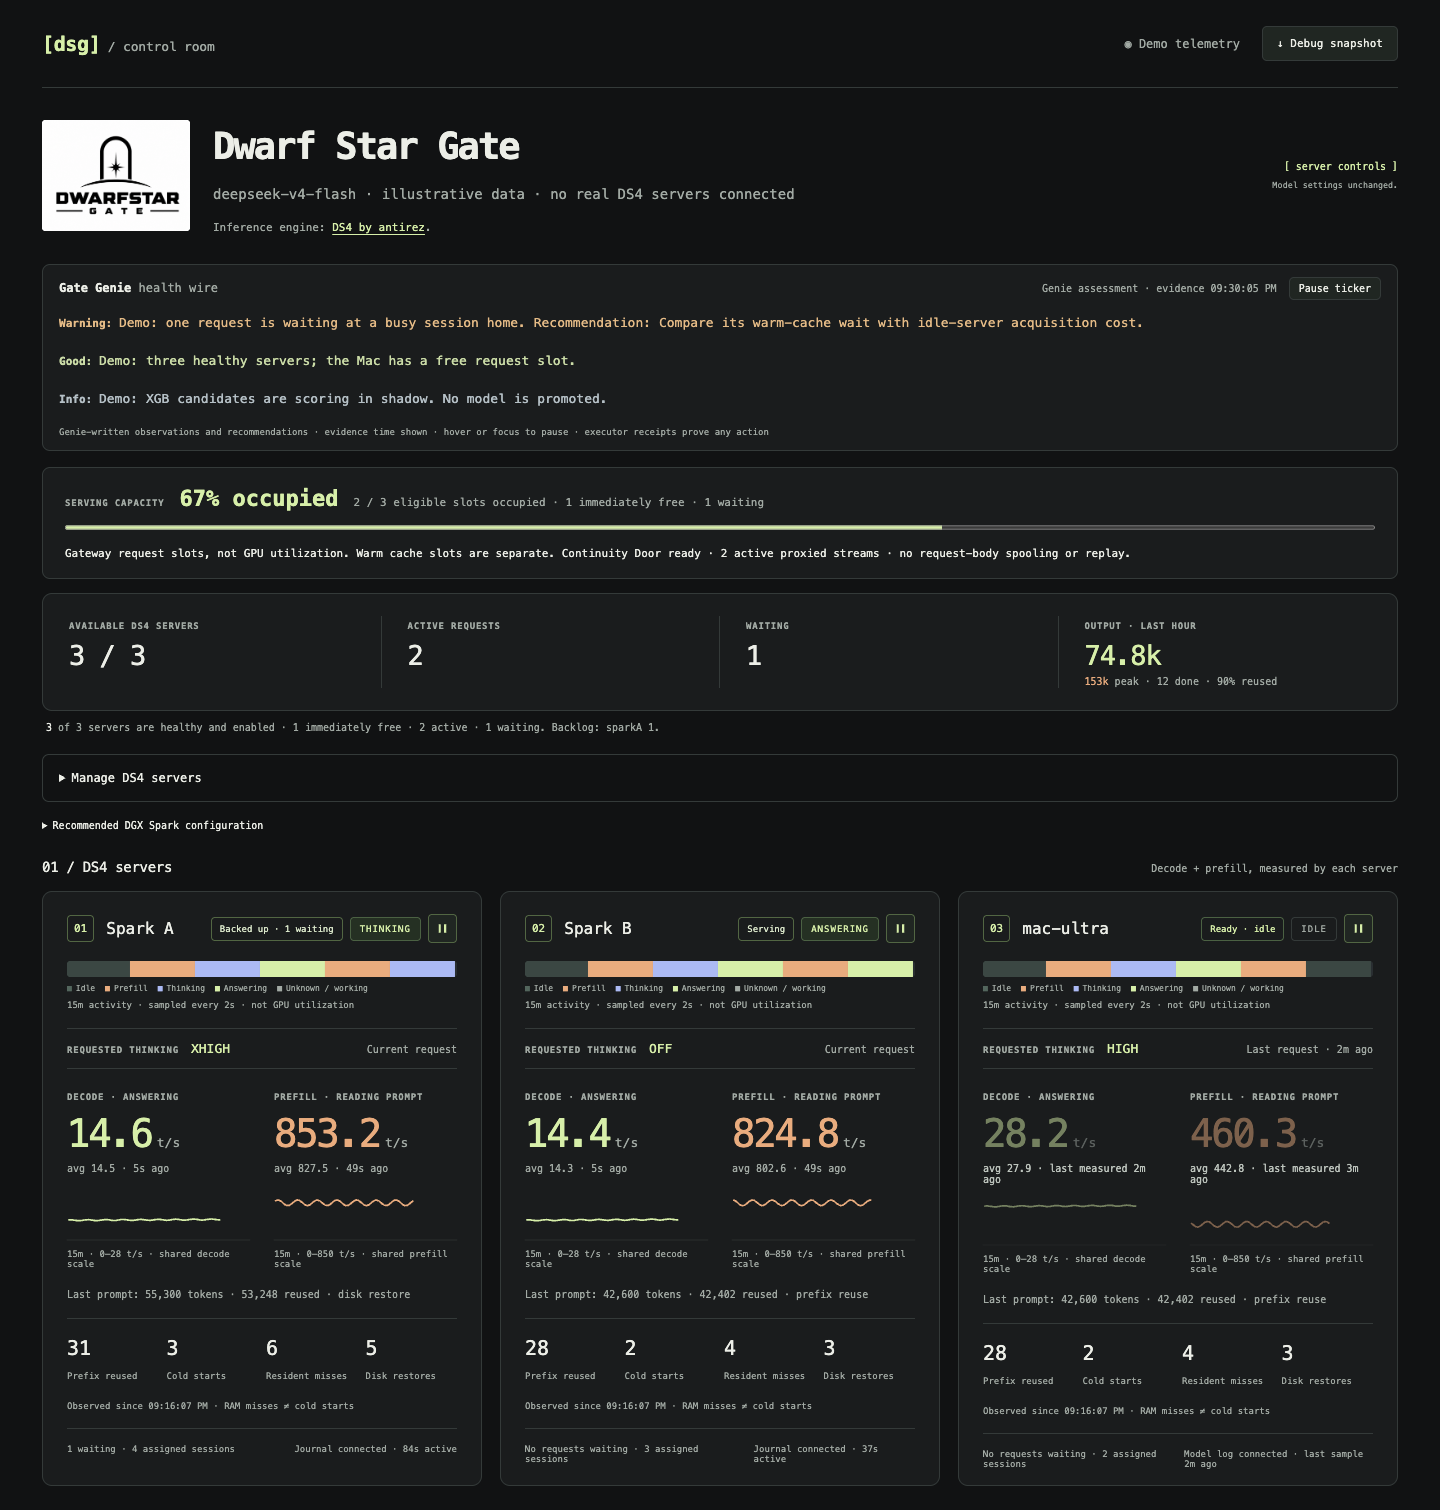
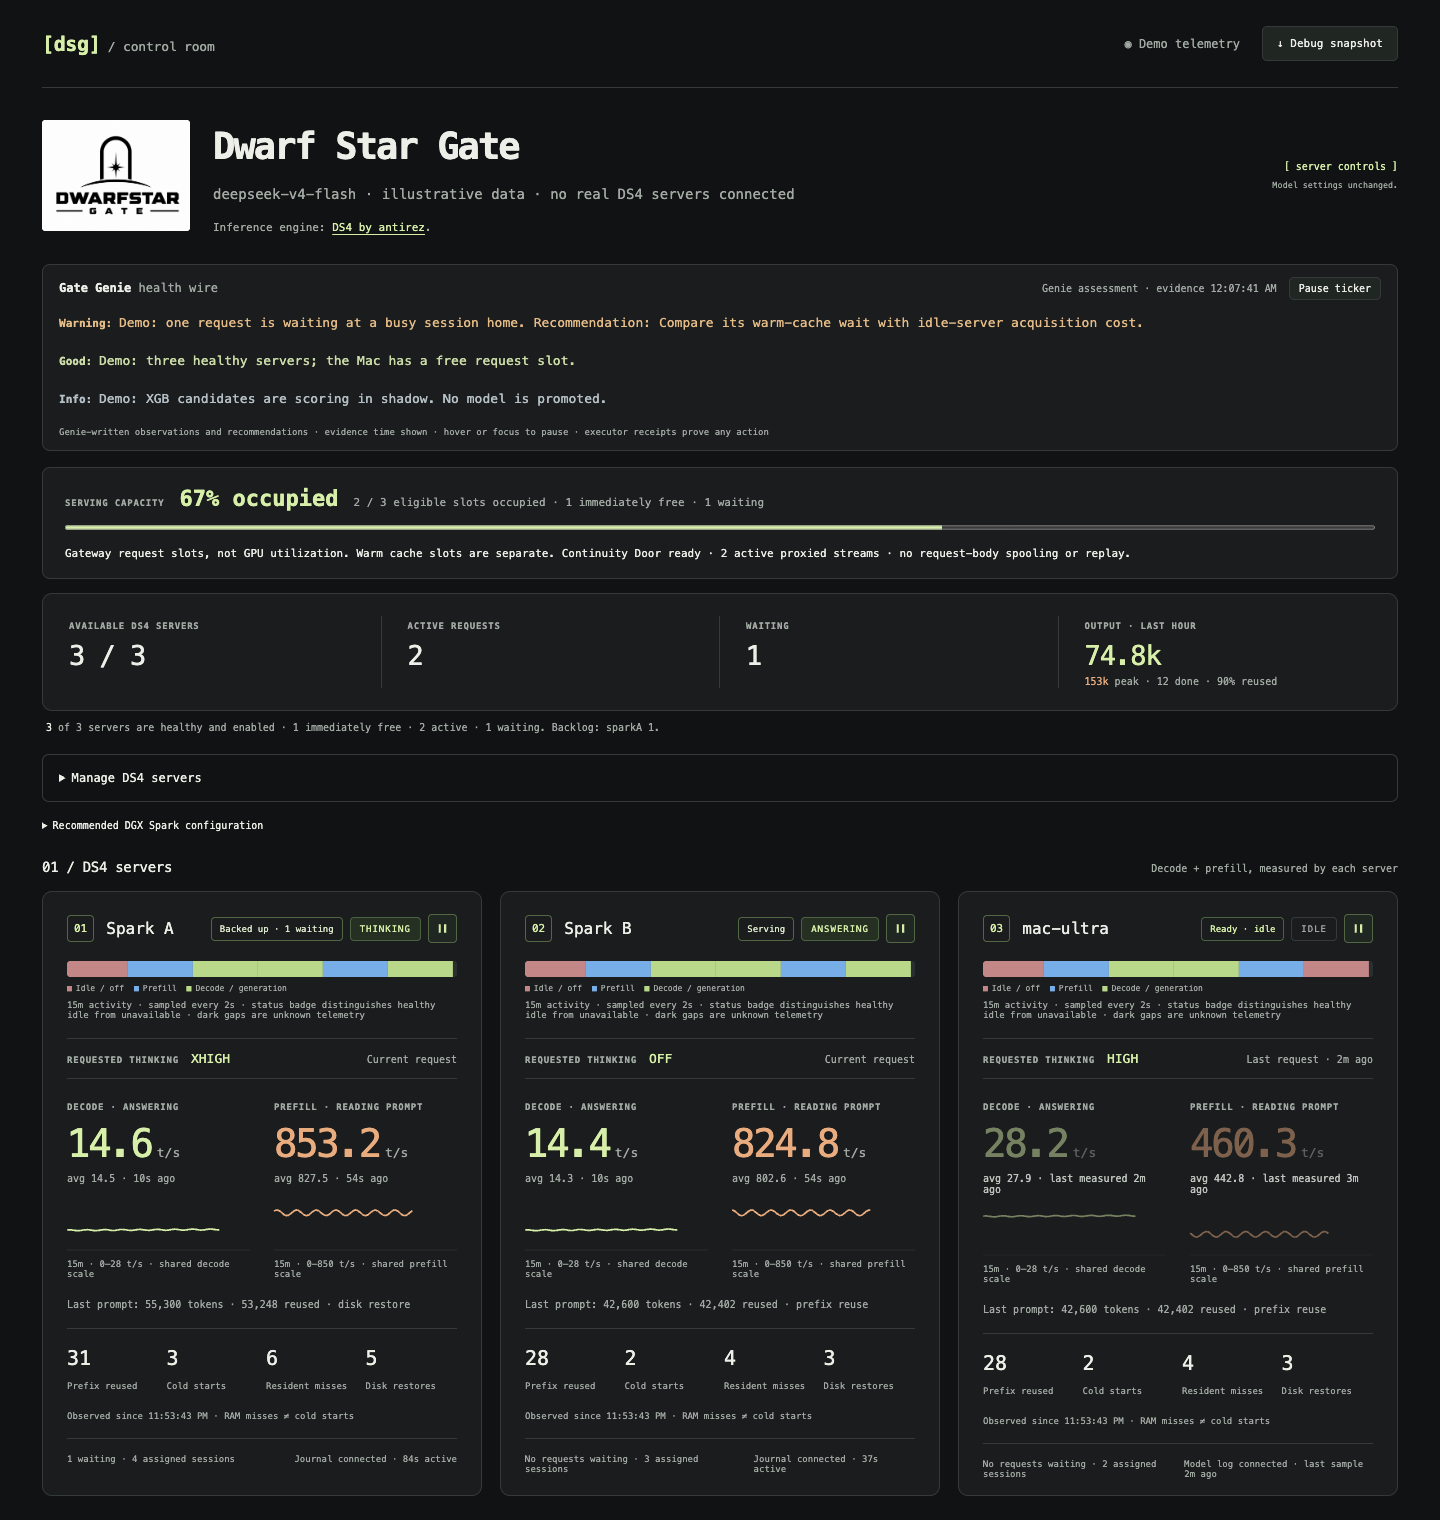
Simplify server activity into three states

diff --git a/ds4-gateway/ui/brand.css b/ds4-gateway/ui/brand.css
@@ -25,8 +25,8 @@ button:disabled{opacity:.4;cursor:default}input:focus-visible,select:focus-visib
 @media(prefers-reduced-motion:reduce){.health-wire-track{animation:none!important;width:auto}.health-wire-group{flex-direction:column;gap:1rem;white-space:normal;padding:0;min-width:0}.health-wire-item{overflow-wrap:anywhere}.health-wire-track>[aria-hidden="true"]{display:none}}
 .capacity-panel{padding:18px 22px;border:1px solid var(--line);border-radius:8px;margin-bottom:14px;background:var(--panel)}
 .capacity-panel>div{display:flex;align-items:baseline;gap:15px;flex-wrap:wrap}.capacity-panel strong{font-size:22px;color:var(--accent)}.capacity-panel .muted,.capacity-panel small{font-size:11px}.capacity-panel progress{display:block;width:100%;height:9px;margin:12px 0;accent-color:var(--accent)}
-.activity-timeline{display:block;width:100%;height:16px;margin-top:18px;background:#292e31;border-radius:3px}.activity-timeline rect{fill:#68747a}.activity-timeline .phase-idle{fill:#3b4743}.activity-timeline .phase-prefill{fill:#e9ac7e}.activity-timeline .phase-thinking{fill:#acbaf4}.activity-timeline .phase-decode{fill:#d7efa9}.activity-timeline .phase-unavailable{fill:#c48f8f}.activity-timeline .phase-unknown{fill:#292e31}
-.phase-legend{display:flex;gap:10px;flex-wrap:wrap;font-size:8px;margin:7px 0;color:var(--muted)}.phase-legend span:before{content:'■';margin-right:4px}.phase-legend span:nth-child(1):before{color:#53665d}.phase-legend span:nth-child(2):before{color:#e9ac7e}.phase-legend span:nth-child(3):before{color:#acbaf4}.phase-legend span:nth-child(4):before{color:#d7efa9}
+.activity-timeline{display:block;width:100%;height:16px;margin-top:18px;background:#292e31;border-radius:3px}.activity-timeline rect{fill:#292e31}.activity-timeline .phase-prefill{fill:#78aee8}.activity-timeline .phase-decode{fill:#b9d889}.activity-timeline .phase-idle-off{fill:#c48787}.activity-timeline .phase-unknown{fill:#292e31}
+.phase-legend{display:flex;gap:10px;flex-wrap:wrap;font-size:8px;margin:7px 0;color:var(--muted)}.phase-legend span:before{content:'■';margin-right:4px}.phase-legend .idle-off:before{color:#c48787}.phase-legend .prefill:before{color:#78aee8}.phase-legend .decode:before{color:#b9d889}
 .insights{display:grid;grid-template-columns:minmax(230px,1fr) minmax(300px,2fr);gap:20px;margin-top:25px}.insights article{border:1px solid var(--line);border-radius:8px;padding:20px;background:var(--panel);font-size:11px;line-height:1.7}.insights h2{font-size:15px;margin:0 0 12px}.insights h2 small{font-size:10px;color:var(--muted);font-weight:normal}.genie-controls{display:flex;gap:8px;flex-wrap:wrap}.genie-controls select,.genie-controls input{min-width:0;flex:1;background:var(--bg);color:var(--text);border:1px solid var(--line);border-radius:4px;padding:8px;font:inherit}.genie-controls button{flex-shrink:0}.genie-panel form{margin-top:15px}.genie-panel label{display:block;margin-bottom:6px}.genie-answer{white-space:pre-wrap;overflow-wrap:anywhere}.genie-panel details{margin:8px 0;padding:8px 0;border-top:1px solid var(--line)}@media(max-width:800px){.insights{grid-template-columns:1fr}}
 .engine-credit,.upstream-credit{font-size:10px;color:var(--muted);line-height:1.7}.engine-credit a,.upstream-credit a{color:var(--accent);text-decoration:underline;text-underline-offset:3px}.engine-credit{margin:7px 0 0}.upstream-credit{margin:6px 0 15px}.upstream-credit span{opacity:.85}
 .analytics-panel{max-width:none;border:1px solid var(--line);border-radius:8px;padding:16px 20px;background:var(--panel);margin:18px 0}.analytics-panel summary{font-size:14px;font-weight:600}.analytics-heading{display:flex;align-items:center;justify-content:space-between;gap:16px;flex-wrap:wrap}.analytics-controls{display:flex;gap:14px;flex-wrap:wrap}.analytics-controls label{display:flex;gap:7px;align-items:center}.analytics-controls select{max-width:180px;background:var(--bg);color:var(--text);border:1px solid var(--line);padding:6px;font:inherit;border-radius:4px}.analytics-body{display:flex;align-items:center;gap:28px}.analytics-plot{width:266px;flex-shrink:0}.analytics-plot svg{display:block;width:100%;height:auto}.analytics-plot text{fill:var(--muted);font-size:10px}.analytics-grid{stroke:var(--line);stroke-width:.6}.analytics-equal{stroke:var(--muted);stroke-dasharray:4 4;stroke-width:1}.analytics-plot circle{fill:var(--accent);opacity:.65;stroke:var(--bg);stroke-width:.5}.analytics-plot .underestimated{fill:var(--orange)}.analytics-empty{padding:42px 15px;text-align:center;line-height:1.7;min-height:180px;border:1px dashed var(--line);border-radius:4px}.analytics-summary{flex:1;min-width:0}.analytics-stats{display:flex;gap:24px;flex-wrap:wrap}.analytics-stats strong{display:block;font-size:23px;color:var(--text);margin:7px 0;font-variant-numeric:tabular-nums}.analytics-caption{margin-bottom:0}.analytics-caption a{color:var(--accent);text-decoration:underline}select:focus-visible{outline:2px solid var(--accent);outline-offset:3px}@media(max-width:700px){.analytics-body{flex-direction:column;gap:10px;align-items:stretch}.analytics-plot{align-self:center;max-width:100%}.analytics-stats{gap:16px}.analytics-panel{padding:14px}}

diff --git a/ds4-gateway/ui/index.html b/ds4-gateway/ui/index.html
@@ -75,6 +75,6 @@
 <div class="table-wrap"><table><thead><tr><th>Time</th><th>DS4 server</th><th>Outcome</th><th>Elapsed</th><th>Queued</th><th>Prefix reused</th><th>Output tokens</th><th>Request</th></tr></thead><tbody id="requests"><tr><td colspan="8" class="muted">Waiting for request records</td></tr></tbody></table></div>
 <footer><p><span class="live-dot"></span> Local only · refreshes every 2s · no external assets</p><p id="updated">—</p></footer>
 <p class="upstream-credit">Original engine: <a href="https://github.com/antirez/ds4" target="_blank" rel="noopener noreferrer">antirez/ds4</a> by <a href="https://antirez.com/" target="_blank" rel="noopener noreferrer">Salvatore Sanfilippo</a> &amp; contributors. Thank you. <span>Independent companion; not an official release.</span></p>
-<details><summary>How to read these numbers</summary><p>A DS4 server is one registered model-server endpoint, not necessarily one physical machine. DSG dispatches at most one active request per registered server; other admitted requests wait in its queue. This covers prefill, thinking and decode. Direct clients are outside this limit. Available means healthy and enabled, including busy servers. Warm cache slots retain sessions; they are not extra active-request slots.</p><p>Decode includes reasoning tokens. Large numbers are the last reported chunk speed; request averages sit underneath. Idle servers keep their last measurement, clearly dated—not a claim of current throughput. Prefill counts only newly processed tokens, not the cached prefix.</p><p>Cold starts mean zero prefix tokens reused. A resident miss can still lead to a successful disk restore. Cache counts are observed events since the displayed time (up to 15 minutes of initial log history), not a lifetime hit rate. “Prefix reuse” alone does not prove which storage tier supplied it. Gateway errors and client cancellations are kept distinct.</p><p>Debug snapshots contain operational metadata and hashed session identifiers, never prompts, images, tool arguments or answers. Review before sharing. Existing gateway logs remain untouched.</p></details>
+<details><summary>How to read these numbers</summary><p>A DS4 server is one registered model-server endpoint, not necessarily one physical machine. DSG dispatches at most one active request per registered server; other admitted requests wait in its queue. This covers prefill, thinking and decode. Direct clients are outside this limit. Available means healthy and enabled, including busy servers. Warm cache slots retain sessions; they are not extra active-request slots.</p><p>The activity strip is deliberately simple: blue is prefill, green is decode/generation (including thinking tokens), and red is idle/off. Dark gaps mean telemetry is unknown. Use the server verdict—not red alone—to distinguish a healthy idle server from a paused or unavailable one.</p><p>Large numbers are the last reported chunk speed; request averages sit underneath. Idle servers keep their last measurement, clearly dated—not a claim of current throughput. Prefill counts only newly processed tokens, not the cached prefix.</p><p>Cold starts mean zero prefix tokens reused. A resident miss can still lead to a successful disk restore. Cache counts are observed events since the displayed time (up to 15 minutes of initial log history), not a lifetime hit rate. “Prefix reuse” alone does not prove which storage tier supplied it. Gateway errors and client cancellations are kept distinct.</p><p>Debug snapshots contain operational metadata and hashed session identifiers, never prompts, images, tool arguments or answers. Review before sharing. Existing gateway logs remain untouched.</p></details>
 <p class="thinking-explanation">Requested thinking shows the client's fields, not the engine's effective level. Hover the value for its source fields. THINKING in a worker's status badge is its current generation phase. Idle workers show the last request; queued requests are not inspected until dispatched.</p>
 </main></body></html>

diff --git a/ds4-gateway/ui/ui.js b/ds4-gateway/ui/ui.js
@@ -115,10 +115,11 @@ function relocationEmpty(diagnostics) {
 }
 function timeline(d,now) {
   const rows=d.activity||[],start=now-900000;
-  return `<svg class="activity-timeline" viewBox="0 0 100 10" preserveAspectRatio="none" role="img" aria-label="Observed activity over the last fifteen minutes; blank sections are unknown">${rows.map(r=>{
+  const band=phase=>phase==='prefill'?'prefill':phase==='thinking'||phase==='decode'?'decode':['idle','paused','unavailable'].includes(phase)?'idle-off':'unknown';
+  return `<svg class="activity-timeline" viewBox="0 0 100 10" preserveAspectRatio="none" role="img" aria-label="Observed activity over the last fifteen minutes: blue is prefill, green is decode or generation, red is idle or off, and dark gaps are unknown telemetry">${rows.map(r=>{
     const left=Math.max(start,r.start),right=Math.min(now,r.end),width=Math.max(0,(right-left)/9000);
-    return `<rect class="phase-${esc(r.phase)}" x="${Math.max(0,(left-start)/9000)}" width="${width}" height="10"><title>${esc(r.phase)} · ${Math.round((right-left)/1000)}s</title></rect>`;
-  }).join('')}</svg><div class="phase-legend"><span>Idle</span><span>Prefill</span><span>Thinking</span><span>Answering</span><span>Unknown / working</span></div><div class="chart-caption">15m activity · sampled every 2s · not GPU utilization</div>`;
+    return `<rect class="phase-${band(r.phase)}" x="${Math.max(0,(left-start)/9000)}" width="${width}" height="10"><title>${esc(r.phase)} · ${Math.round((right-left)/1000)}s</title></rect>`;
+  }).join('')}</svg><div class="phase-legend"><span class="idle-off">Idle / off</span><span class="prefill">Prefill</span><span class="decode">Decode / generation</span></div><div class="chart-caption">15m activity · sampled every 2s · status badge distinguishes healthy idle from unavailable · dark gaps are unknown telemetry</div>`;
 }
 function routingInfo(w,{stale=false,recovering=false}={}) {
   if(stale||!w)return {level:'unknown',label:'STATUS UNKNOWN',detail:'Live gateway status is unavailable. Routing controls are disabled until it returns.',action:null};

diff --git a/CHANGELOG.md b/CHANGELOG.md
@@ -1,5 +1,13 @@
 # Changelog
 
+## Three-state server activity view
+
+- Per-server history now uses three operational bands only: blue prefill, green
+  decode/generation (including thinking-token generation), and red idle/off.
+  Unknown telemetry remains an unlabelled dark gap rather than a fabricated
+  state; the separate server verdict still distinguishes healthy idle, paused
+  and unavailable machines.
+
 ## Layered worker-failure evidence
 
 - Gateway status now reports a sanitized management-path state separately from
